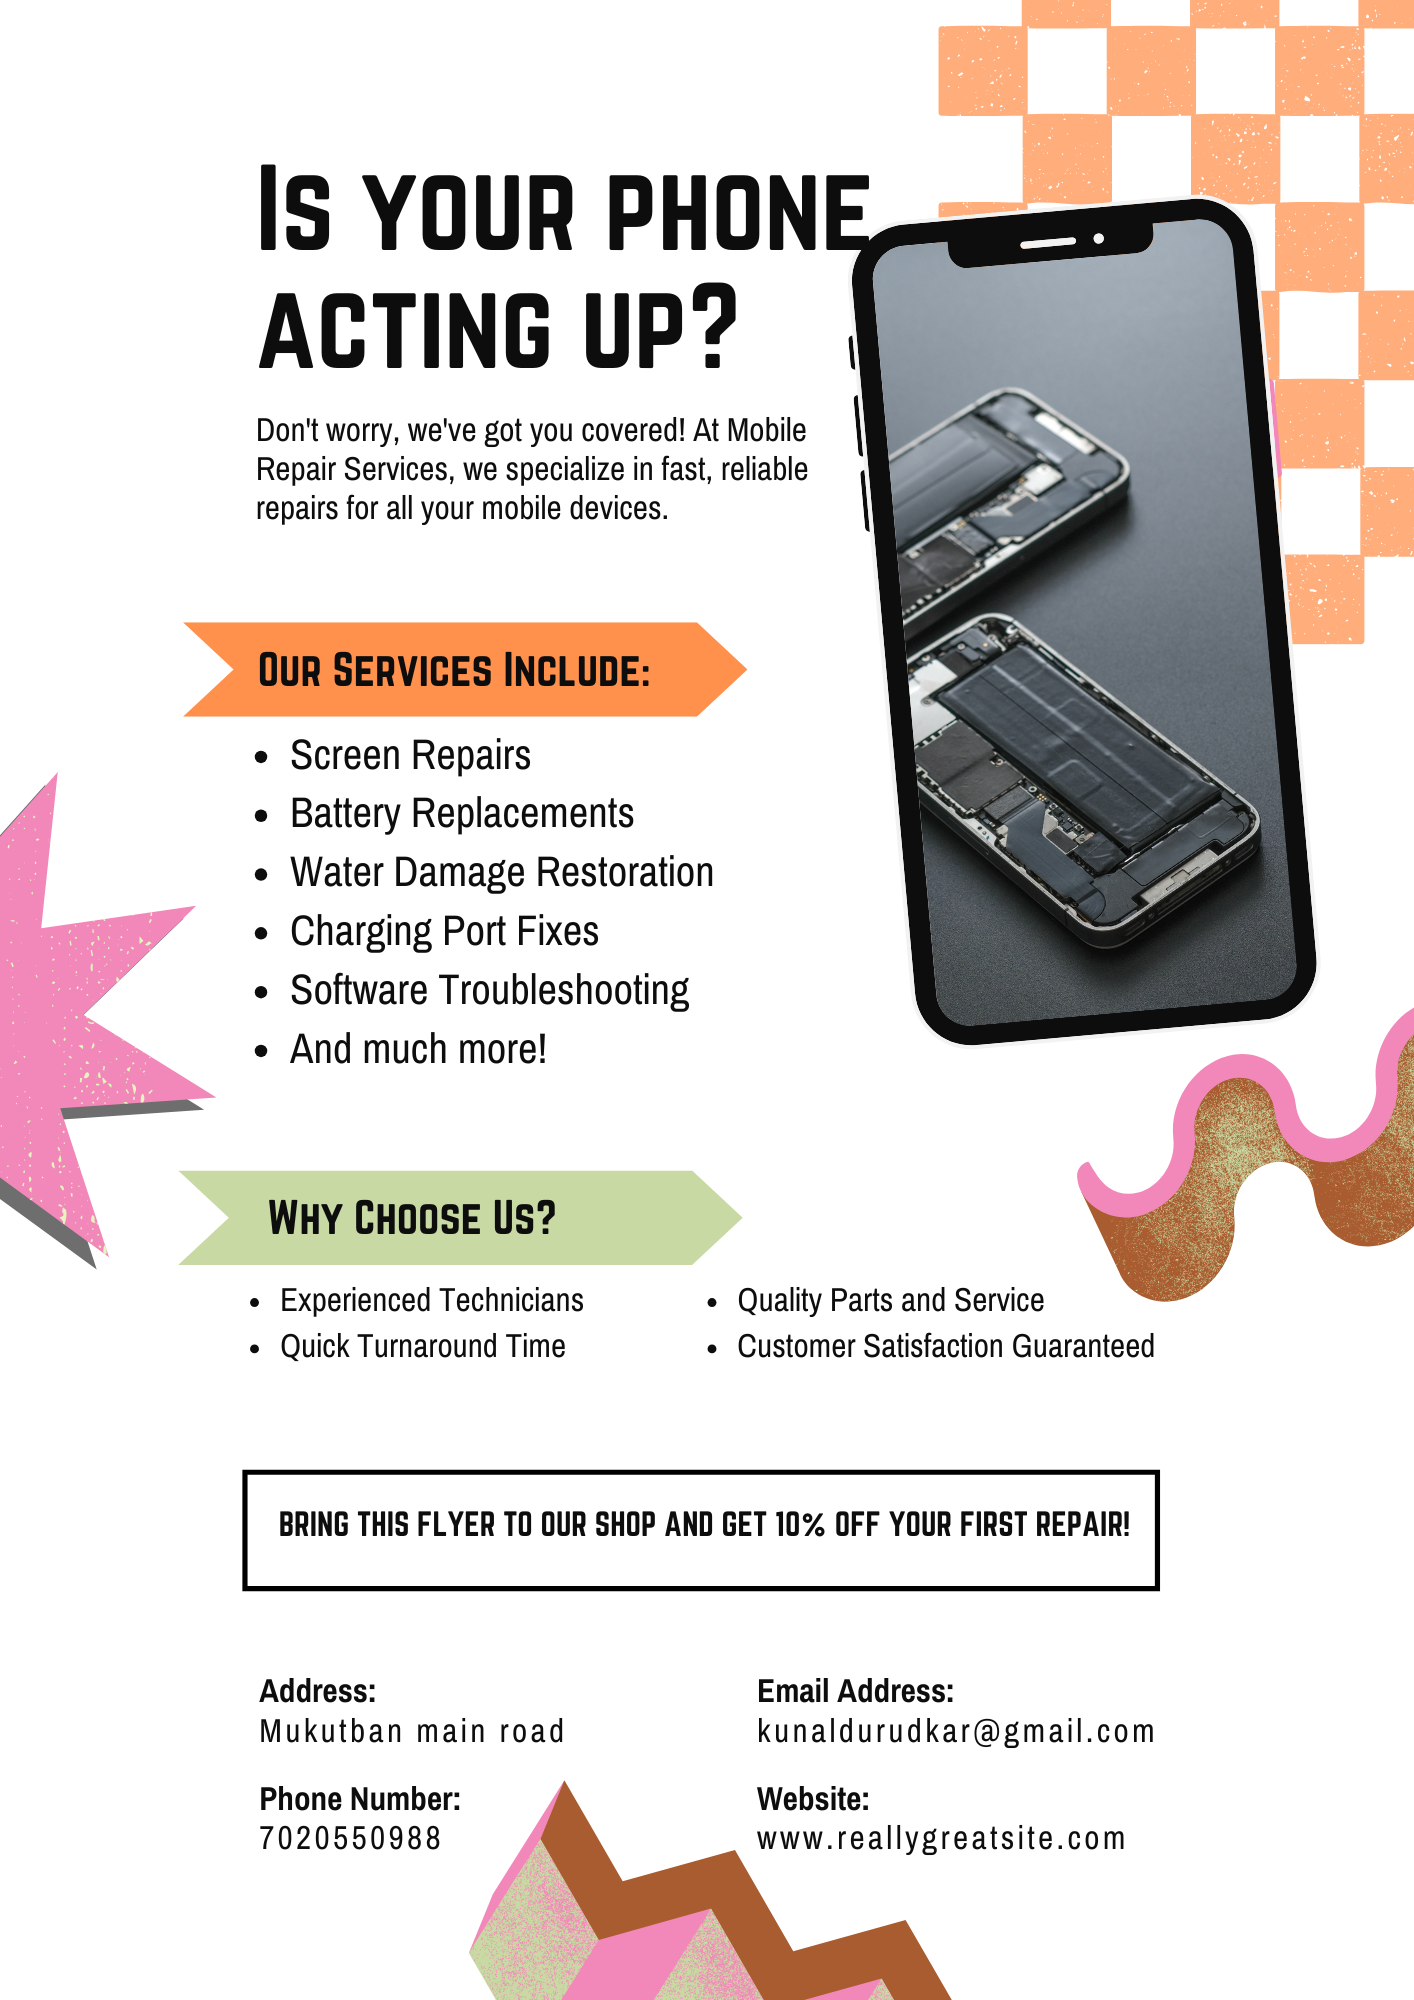
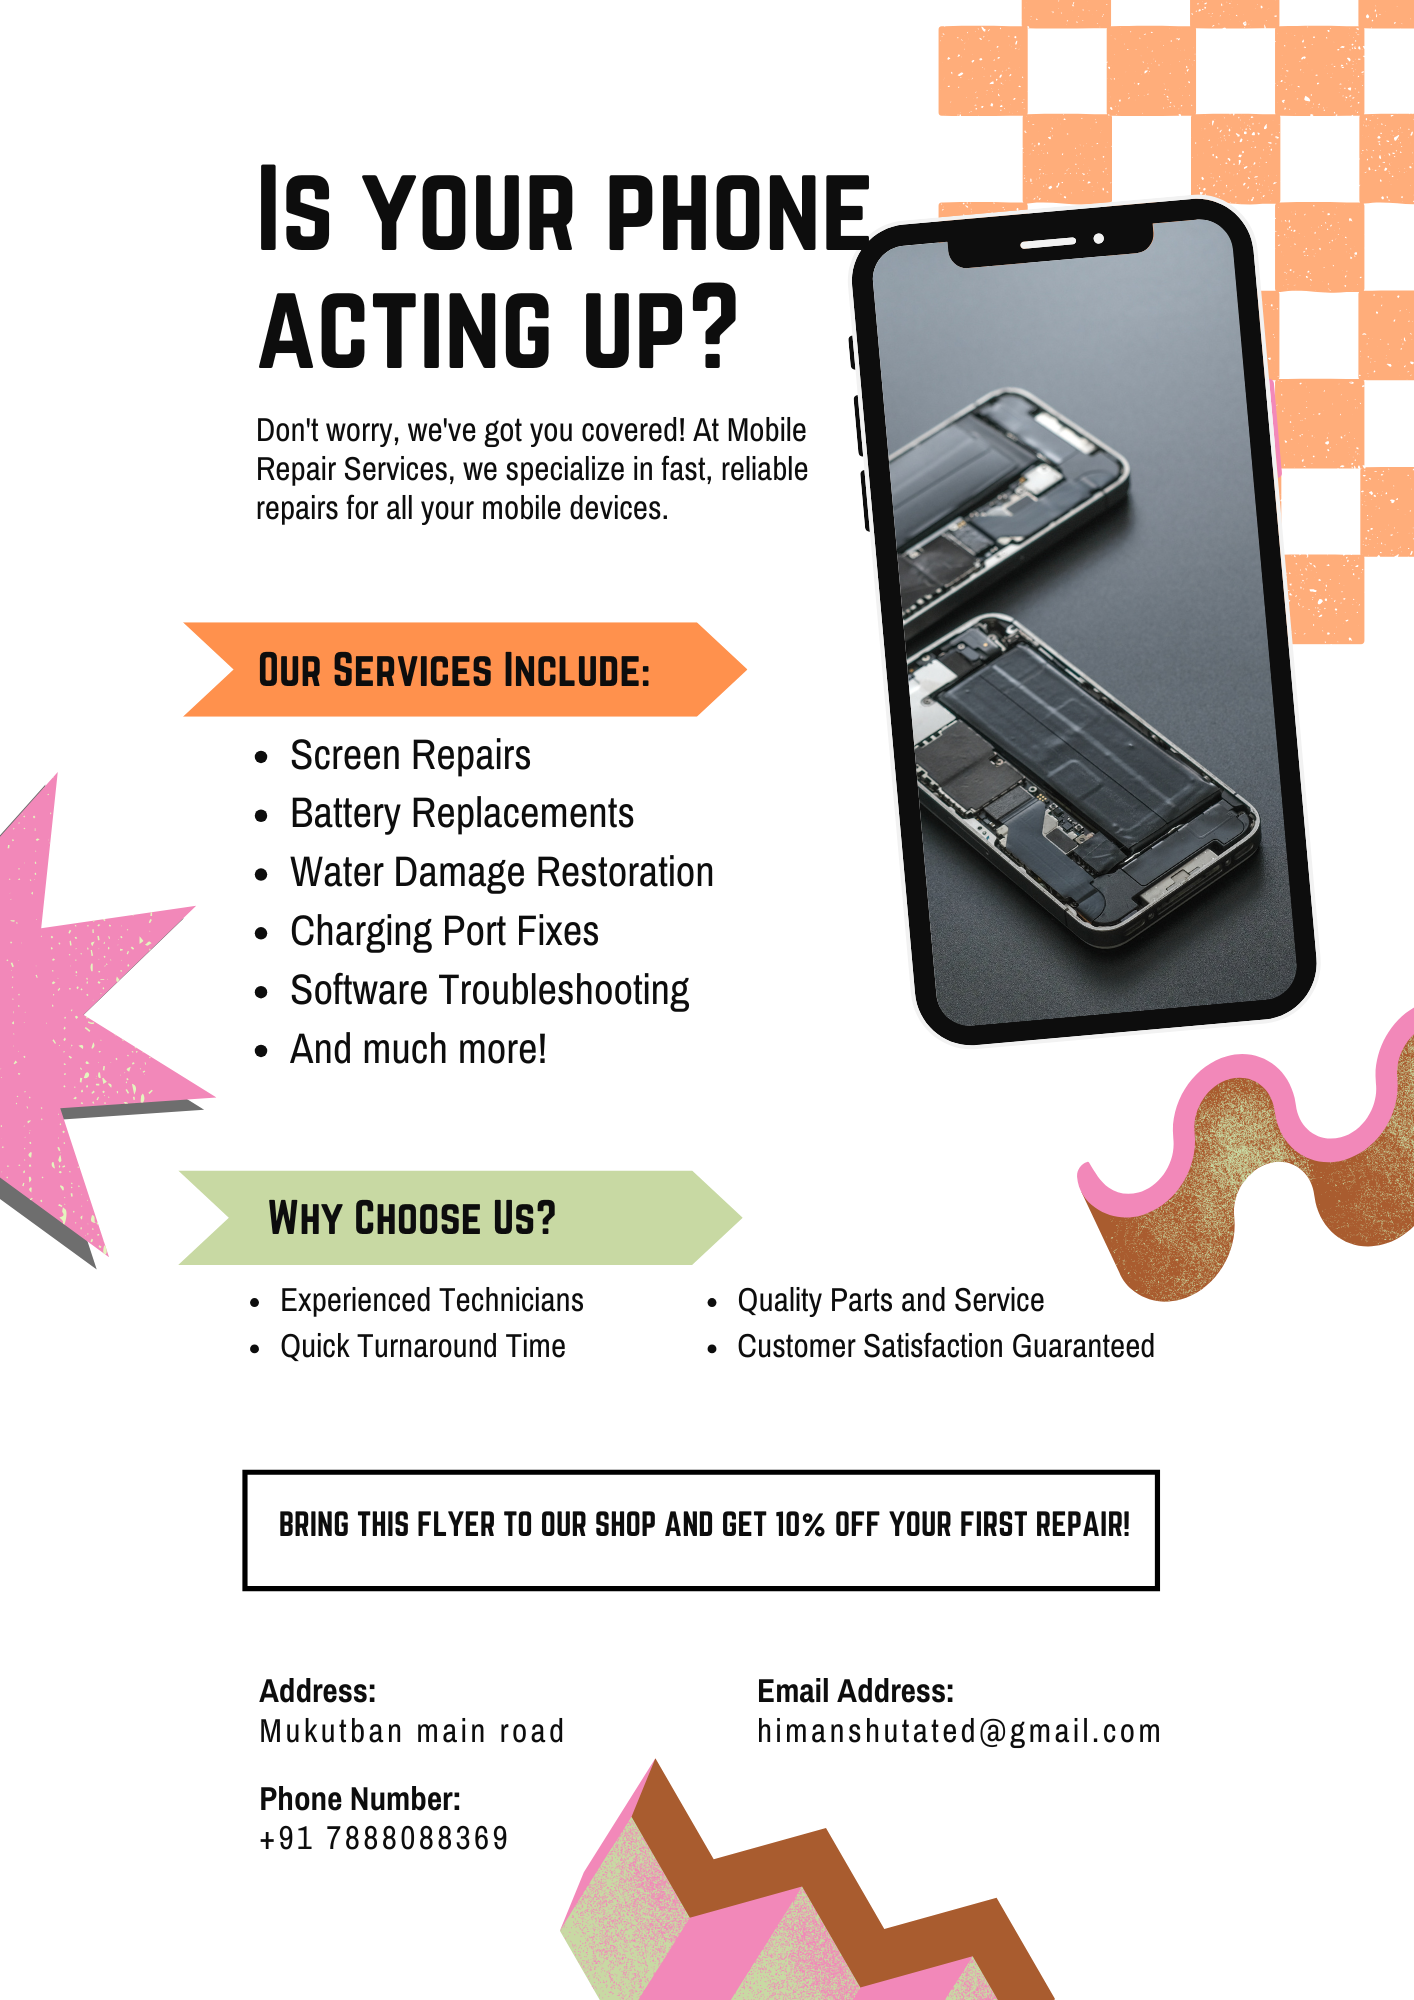
5TH commit

Changed region(s): [[0.1867, 0.837, 0.8091, 1.0]]

diff --git a/index.html b/index.html
@@ -31,7 +31,7 @@
     <div class="container-fluid">
         <div class="row">
             <div class="col text-center">
-                <p style="font-size: 20px; padding-top: 10px">Contact us at +91 7020550988 | himanshutated@gmail.com</p>
+                <p style="font-size: 20px; padding-top: 10px">Contact us at <a href="tel:+917888088369">+91 7888088369</a> | <a href="mailto:himanshutated@gmail.com">himanshutated@gmail.com</a></p>
             </div>
         </div>
     </div>
@@ -309,22 +309,22 @@ window.addEventListener("scroll", () => {
                                     <div class="social-wrapper">
                                         <div class="social-wrap">
                                             <div class="soc-item">
-                                                <a href="#">
+                                                <a href="https://www.facebook.com/kunal.durudkar">
                                                     <span class="mbr-iconfont socicon socicon-facebook"></span>
                                                 </a>
                                             </div>
                                             <div class="soc-item">
-                                                <a href="#">
-                                                    <span class="mbr-iconfont socicon socicon-twitter"></span>
+                                                <a href="mailto:durudkarkunal@gmail.com">
+                                                    <span class="mbr-iconfont socicon socicon-mail"></span>
                                                 </a>
                                             </div>
                                             <div class="soc-item">
-                                                <a href="#">
+                                                <a href="https://www.linkedin.com/in/kunal-durudkar-736014222/">
                                                     <span class="mbr-iconfont socicon socicon-linkedin"></span>
                                                 </a>
                                             </div>
                                             <div class="soc-item">
-                                                <a href="#">
+                                                <a href="https://www.instagram.com/the.minimum.boy/profilecard/?igsh=MWV1ZmNzeHQyOWpvZw==">
                                                     <span class="mbr-iconfont socicon socicon-instagram"></span>
                                                 </a>
                                             </div>
@@ -1104,9 +1104,9 @@ window.addEventListener("scroll", () => {
                     <!-- Contact Details -->
                     <div class="contact-details">
                         <p class="mbr-fonts-style display-7">
-                            <strong>Phone:</strong> +91 7020550988<br>
+                            <strong>Phone:</strong> <a href="tel:+917888088369">+91 7888088369</a><br>
                             <strong>Email:</strong> himanshutated@gmail.com<br>
-                            <strong>WhatsApp:</strong> 7020550988
+                            <strong>WhatsApp:</strong><a href="https://wa.me/917888088369"> 7888088369</a>
                         </p>
                     </div>
                 </div>
